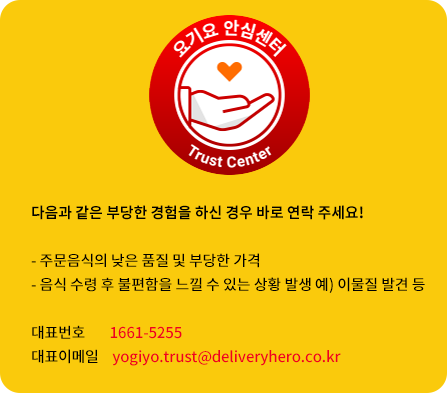
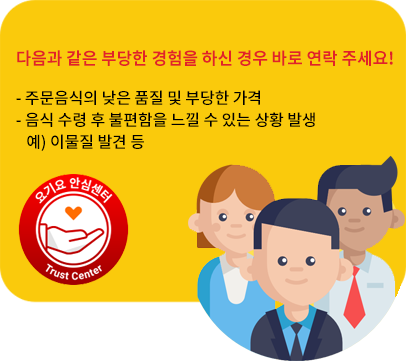
Add files via upload

diff --git a/js/jquery.mousewheel.min.js b/js/jquery.mousewheel.min.js
@@ -1,0 +1,8 @@
+/*!
+ * jQuery Mousewheel 3.1.13
+ *
+ * Copyright 2015 jQuery Foundation and other contributors
+ * Released under the MIT license.
+ * http://jquery.org/license
+ */
+!function(a){"function"==typeof define&&define.amd?define(["jquery"],a):"object"==typeof exports?module.exports=a:a(jQuery)}(function(a){function b(b){var g=b||window.event,h=i.call(arguments,1),j=0,l=0,m=0,n=0,o=0,p=0;if(b=a.event.fix(g),b.type="mousewheel","detail"in g&&(m=-1*g.detail),"wheelDelta"in g&&(m=g.wheelDelta),"wheelDeltaY"in g&&(m=g.wheelDeltaY),"wheelDeltaX"in g&&(l=-1*g.wheelDeltaX),"axis"in g&&g.axis===g.HORIZONTAL_AXIS&&(l=-1*m,m=0),j=0===m?l:m,"deltaY"in g&&(m=-1*g.deltaY,j=m),"deltaX"in g&&(l=g.deltaX,0===m&&(j=-1*l)),0!==m||0!==l){if(1===g.deltaMode){var q=a.data(this,"mousewheel-line-height");j*=q,m*=q,l*=q}else if(2===g.deltaMode){var r=a.data(this,"mousewheel-page-height");j*=r,m*=r,l*=r}if(n=Math.max(Math.abs(m),Math.abs(l)),(!f||f>n)&&(f=n,d(g,n)&&(f/=40)),d(g,n)&&(j/=40,l/=40,m/=40),j=Math[j>=1?"floor":"ceil"](j/f),l=Math[l>=1?"floor":"ceil"](l/f),m=Math[m>=1?"floor":"ceil"](m/f),k.settings.normalizeOffset&&this.getBoundingClientRect){var s=this.getBoundingClientRect();o=b.clientX-s.left,p=b.clientY-s.top}return b.deltaX=l,b.deltaY=m,b.deltaFactor=f,b.offsetX=o,b.offsetY=p,b.deltaMode=0,h.unshift(b,j,l,m),e&&clearTimeout(e),e=setTimeout(c,200),(a.event.dispatch||a.event.handle).apply(this,h)}}function c(){f=null}function d(a,b){return k.settings.adjustOldDeltas&&"mousewheel"===a.type&&b%120===0}var e,f,g=["wheel","mousewheel","DOMMouseScroll","MozMousePixelScroll"],h="onwheel"in document||document.documentMode>=9?["wheel"]:["mousewheel","DomMouseScroll","MozMousePixelScroll"],i=Array.prototype.slice;if(a.event.fixHooks)for(var j=g.length;j;)a.event.fixHooks[g[--j]]=a.event.mouseHooks;var k=a.event.special.mousewheel={version:"3.1.12",setup:function(){if(this.addEventListener)for(var c=h.length;c;)this.addEventListener(h[--c],b,!1);else this.onmousewheel=b;a.data(this,"mousewheel-line-height",k.getLineHeight(this)),a.data(this,"mousewheel-page-height",k.getPageHeight(this))},teardown:function(){if(this.removeEventListener)for(var c=h.length;c;)this.removeEventListener(h[--c],b,!1);else this.onmousewheel=null;a.removeData(this,"mousewheel-line-height"),a.removeData(this,"mousewheel-page-height")},getLineHeight:function(b){var c=a(b),d=c["offsetParent"in a.fn?"offsetParent":"parent"]();return d.length||(d=a("body")),parseInt(d.css("fontSize"),10)||parseInt(c.css("fontSize"),10)||16},getPageHeight:function(b){return a(b).height()},settings:{adjustOldDeltas:!0,normalizeOffset:!0}};a.fn.extend({mousewheel:function(a){return a?this.bind("mousewheel",a):this.trigger("mousewheel")},unmousewheel:function(a){return this.unbind("mousewheel",a)}})});

diff --git a/js/main.js b/js/main.js
@@ -38,8 +38,9 @@ $(window).scroll(function(){
    }
 });
 
-/* 헤더, 요기요 app */
+
 $(document).ready(function(){
+   /* 헤더, 요기요 app  fadeIn,fadeOut */
    $("#yogiyoApp2").hide();
    $(window).scroll(function(){
       var wScroll = $(this).scrollTop();
@@ -56,27 +57,26 @@ $(document).ready(function(){
          $("h1, #sns").fadeIn(300);
       }
    });
+
+   /* 배경 이미지 랜덤 */
+   var rnd = Math.random();
+   var img1 = "images/mainimg1.png";
+   var img2 = 'images/mainimg2.png';
+   var img3 = 'images/mainimg3.png';
+   var img4 = 'images/mainimg4.png';
+   if (rnd <= 0.25) {
+      $("#section1").css({"background" : "url(" + img1 + ") center no-repeat fixed", "background-size" : "cover"});
+   } else if (rnd > 0.25 && rnd <= 0.5) {
+      $("#section1").css({"background" : "url(" + img2 + ") center no-repeat fixed", "background-size" : "cover"});
+   } else if (rnd > 0.5 && rnd <= 0.75) {
+      $("#section1").css({"background" : "url(" + img3 + ") center no-repeat fixed", "background-size" : "cover"});
+   } else {
+      $("#section1").css({"background" : "url(" + img4 + ") center no-repeat fixed", "background-size" : "cover"});
+   }
 });
 
-/* 배경 이미지 랜덤 */
-
-function backImg() {
-   var rnd = Math.random();
-   if (rnd <= 0.25) {
-      $(".backImg > img").attr("src", "images/mainimg1.png");
-   } else if (rnd > 0.25 && rnd <= 0.5) {
-      $(".backImg > img").attr("src", "images/mainimg2.png");
-   } else if (rnd > 0.5 && rnd <= 0.75) {
-      $(".backImg > img").attr("src", "images/mainimg3.png");
-   } else {
-      $(".backImg > img").attr("src", "images/mainimg4.png");
-   }
-}
-
-backImg();
 
 /* 마우스 휠 이벤트 */
-
 var scrollEvent = false;
 var count = 0;
 $("html, body").on("mousewheel", function(e){
@@ -85,16 +85,15 @@ $("html, body").on("mousewheel", function(e){
    var wHeight = $("#section1").height();
 
    if(event > 1 && scrollEvent == false && count >=1 ){
-      
       scrollEvent = true;
       count--;
       $("html,body").stop().animate({scrollTop:wHeight*count},
          {duration:800, complete : function(){scrollEvent = false;}});
    } else if (event < 1 && scrollEvent == false && count < 4){
-      
       scrollEvent = true;
       count++;
       $("html,body").stop().animate({scrollTop:wHeight*count},
          {duration:800, complete : function(){scrollEvent = false;}});
    }
 });
+

diff --git a/css/main.css b/css/main.css
@@ -51,7 +51,10 @@ box-sizing
 #fullpage #fullpageWrap {position: relative; left: 50%; transform: translateX(-50%); width: 1024px; height: 100vh;}
 
 /* 각 섹션 설정*/
-#section1 .backImg {position: absolute; width: 100%; height: 100%; overflow: hidden;}
+#section1 .backImg {width: 100vh; height: 100vh;}
+#section1 .backImg img {width: 100%; height: 100%; background-size: cover;}
+
+#section1 {background: url("../images/mainimg1.png") center no-repeat fixed; background-size: cover;}
 #section1 .section1Title > img {position: absolute; left: 0; top: 200px;}
 #section1 .yogiyoApp > a {position: absolute; right: 0; bottom: 125px;}
 
@@ -59,19 +62,20 @@ box-sizing
 #section2 .section2Title > img {position: absolute; left: 0; top: 200px;}
 #section2 .section2Content {position: absolute; left: 0; top : 460px; text-align: left;}
 #section2 .section2Content > p {margin-bottom: 40px; font-size: 15px; font-weight: 200; color: #fff;}
-#section2 .section2Content2 > img {position: absolute; right: 35px; bottom: 90px; width: 480px; height: 385px;}
+#section2 .section2Content2 > img {position: absolute; right: 0; bottom: 40px;}
 
 #section3 {background: url(../images/bg2.png) center no-repeat; background-size: 100% 100%;}
  /* #section3 {background: url(../images/page3img.png) center no-repeat fixed; background-size: cover;} */
 #section3 .section3Title > img {position: absolute; left: 0; top: 200px;}
 #section3 .section3Content {position: absolute; left: 0; top : 460px; text-align: left;}
 #section3 .section3Content > p {font-size: 15px; font-weight: 200; color: #fff;}
+#section3 .section3Content2 > img {position: absolute; right: 40px; bottom: 20px;}
 
 #section4 {background: url(../images/bg3.png) center no-repeat; background-size: 100% 100%;}
 #section4 .section4Title > img {position: absolute; left: 0; top: 200px;}
 #section4 .section4Content {position: absolute; left: 0; top : 540px; text-align: left;}
 #section4 .section4Content > p {font-size: 15px; font-weight: 200; color: #fff;}
-#section4 .section4Content2 {position: absolute; right: 0; bottom: 40px;}
+#section4 .section4Content2 {position: absolute; right: 50px; bottom: 80px;}
 
 /*#section5 {background-color: #faca0c;}*/
 /*#section5 {background: url(../images/bg4.png) center no-repeat; background-size: cover;}*/

diff --git a/index.html b/index.html
@@ -42,9 +42,13 @@
 
    <div id="fullpage">
       <div class="section" id="section1">
-         <div class="backImg">
+         <!--
+            <div class="backImg">
             <img src="images/mainimg1.png" alt="">
          </div> 
+
+         -->
+         
          <div id="fullpageWrap">
             <div class="section1Title">
                <img src="images/page1title.png" alt="즐거움은 요기부터 배달 음식 주문은 역시 요기요">
@@ -84,6 +88,9 @@
                   100% 신뢰할 수 있는 요기요만의 차별화된 리뷰 기능입니다.
                </p>
             </div>
+            <div class="section3Content2">
+               <img src="images/page3cleanre3.png" alt="클린 리뷰 설명 그림">
+            </div>
          </div>
       </div>
 
@@ -99,7 +106,9 @@
                   기준에 따라 일부 또는 최대 100%까지 보상 받으실 수 있습니다.
                </p>
             </div>
-
+            <div class="section4Content2">
+               <img src="images/page4safety2.png" alt="요기요 안심센터 설명이미지">
+            </div>
          </div>
       </div>
 
@@ -142,5 +151,6 @@
    </div>
    <script type="text/javascript" src="js/jquery-3.4.1.min.js"></script>
    <script type="text/javascript" src="js/main.js"></script>
+   
 </body>
 </html>
